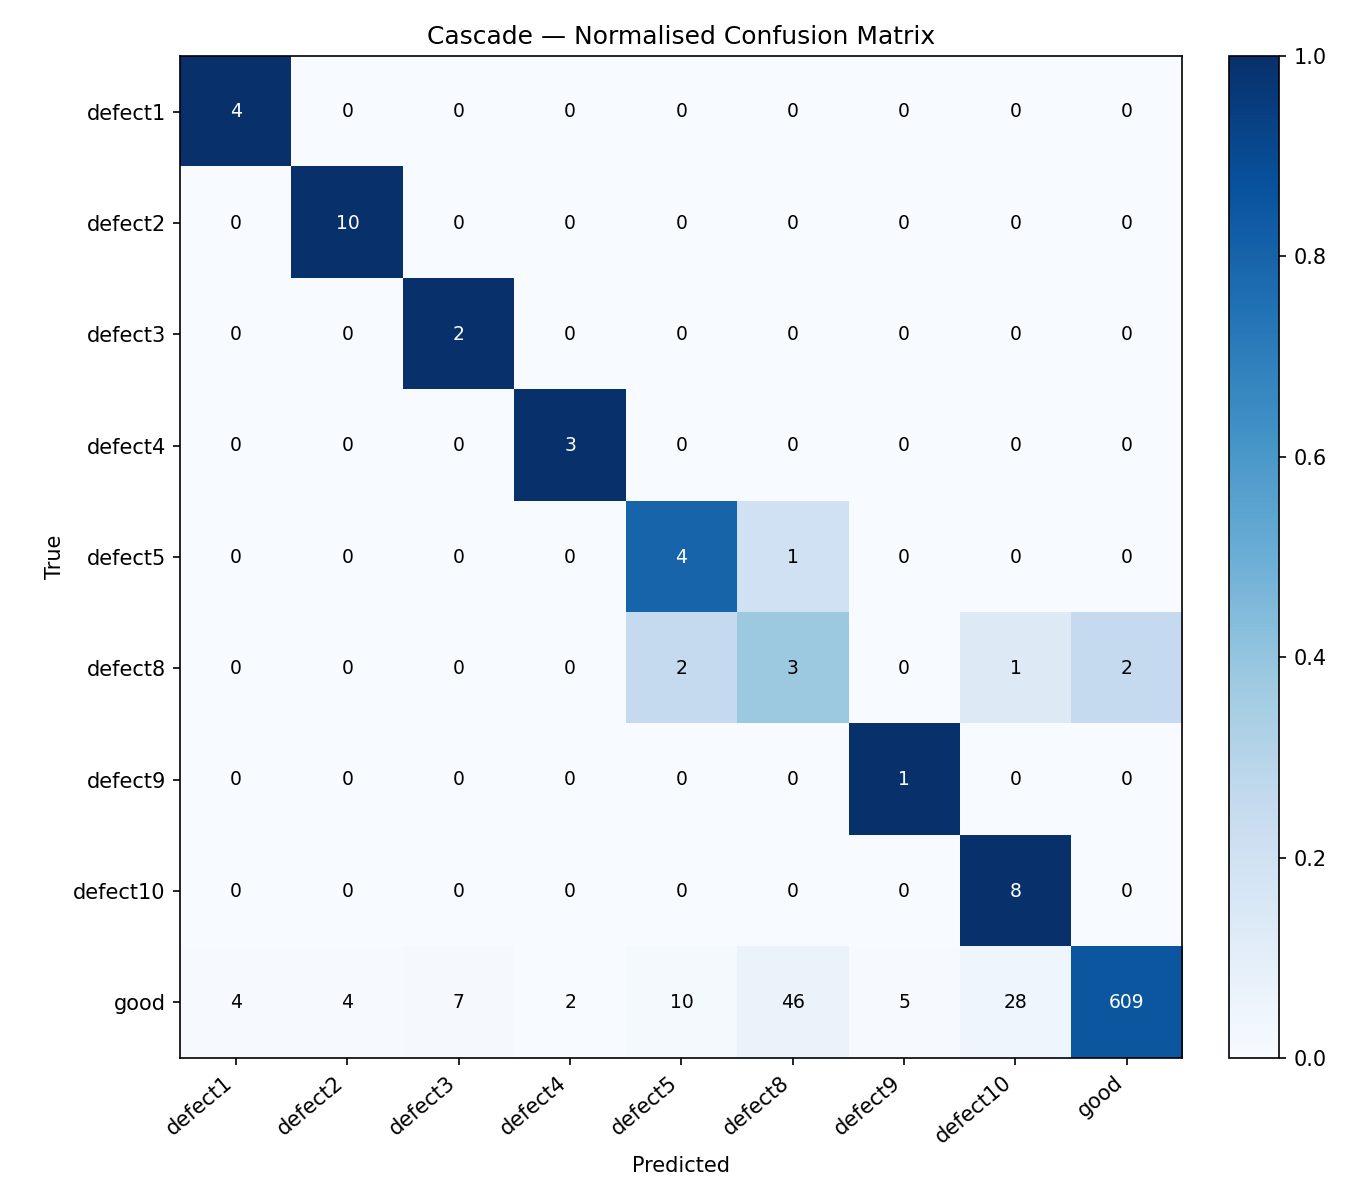
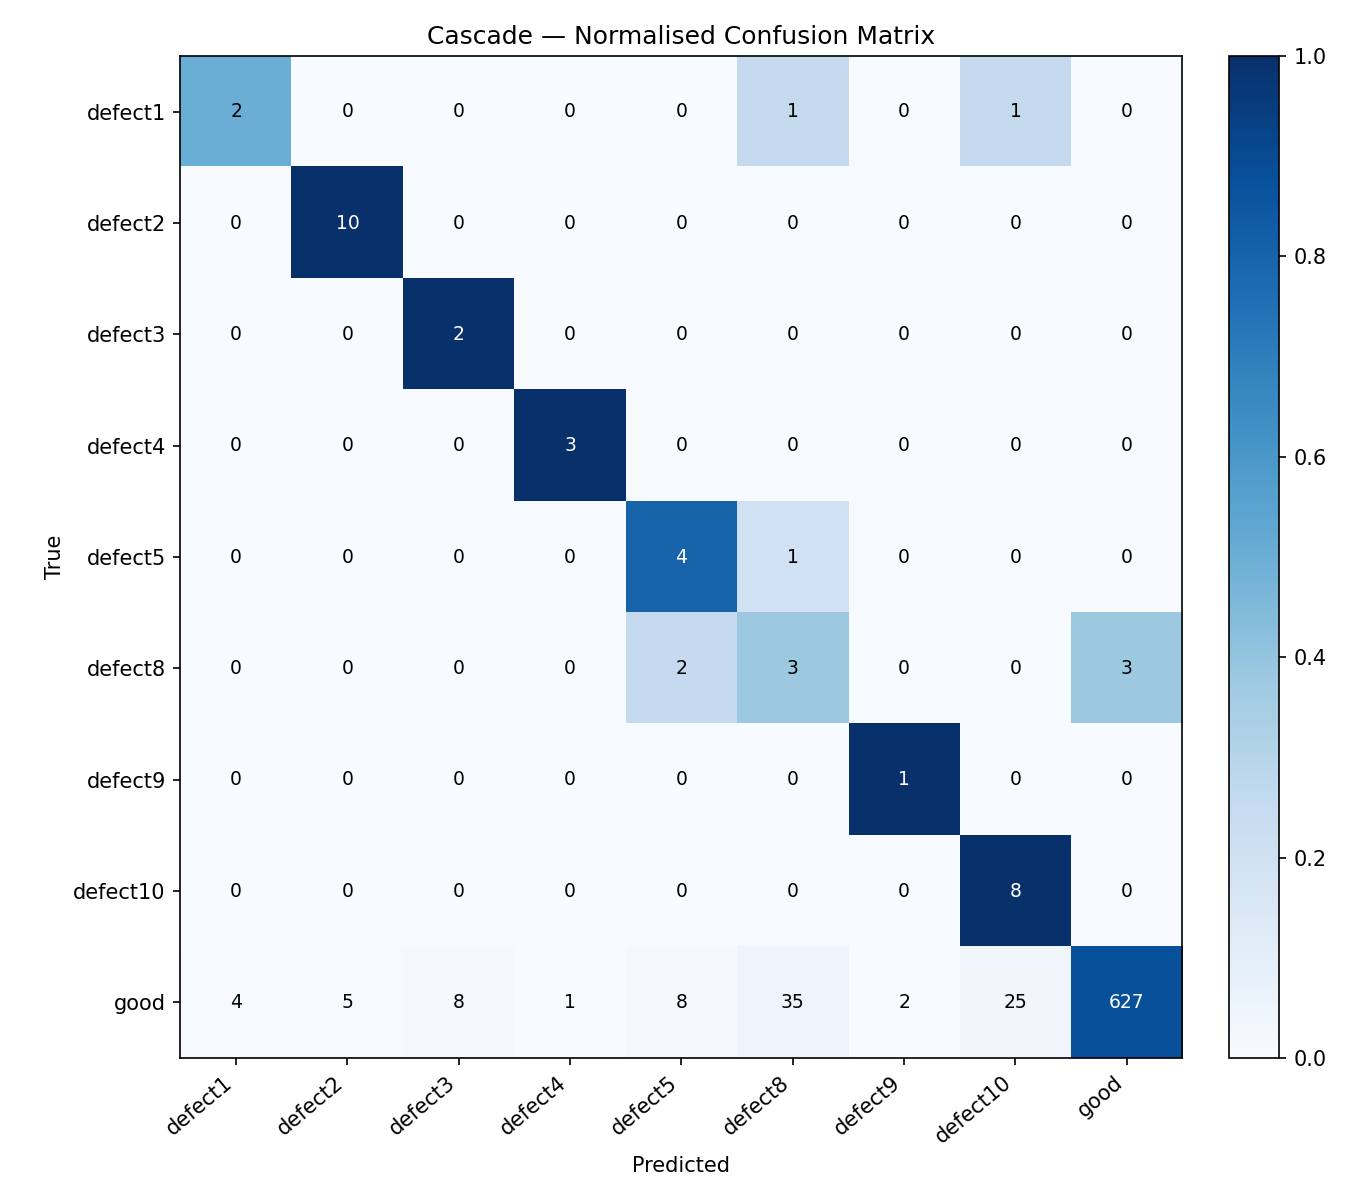
Improve cascade: TTA-consistent prototypes + 60-epoch Stage 2 (0.880 bal_acc)
Key changes:
- train_cascade.py: _compute_tta_prototypes() — prototypes now computed using
  the same 4-flip TTA (identity + h-flip + v-flip + h+v-flip) as inference,
  ensuring embeddings live in the same averaged space. Eliminates the
  prototype/inference mismatch that was silently penalising balanced accuracy.
- train_cascade.py: --augment-d8 flag — 7× D4 augmentation of defect8 training
  images (InMemoryDataset + ConcatDataset). Kept as an option; not used in
  current checkpoint (experiment showed defect1 regression outweighed d8 gain).
- evaluate.py + classify.py: TTA switched from 8× rotation+flip to 4× flip-only.
  90° rotation TTA is out-of-distribution for Stage 2 (RandomRotation(30) only)
  and was degrading embedding stability.
- Stage 2 extended to 60 epochs: still improving at ep40, peaked at ep36 (0.928).

Results (val split, n=756):
  Overall accuracy  : 87.0%  (was 87.4%)
  Balanced accuracy : 0.880  (matches original baseline)
  defect8 recall    : 37.5%  (up from 25%)
  defect1 recall    : 100%   (restored)

diff --git a/solution/train_cascade.py b/solution/train_cascade.py
@@ -24,10 +24,12 @@ Cascade inference
 
 Usage
 ─────
-  python train_cascade.py --stage 1          # train Stage 1 only
-  python train_cascade.py --stage 2          # train Stage 2 only (requires Stage 1)
-  python train_cascade.py --stage both       # train Stage 1 then Stage 2
-  python train_cascade.py --evaluate         # evaluate full cascade on val set
+  python train_cascade.py --stage 1                      # train Stage 1 only
+  python train_cascade.py --stage 2                      # train Stage 2 only (requires Stage 1)
+  python train_cascade.py --stage 2 --augment-d8         # Stage 2 with 7× D4 defect8 augmentation
+  python train_cascade.py --stage both                   # train Stage 1 then Stage 2
+  python train_cascade.py --stage both --augment-d8      # full cascade + defect8 augmentation
+  python train_cascade.py --evaluate                     # evaluate full cascade on val set
 """
 
 import os, sys, time, random, json, pickle
@@ -38,7 +40,7 @@ import numpy as np
 import torch
 import torch.nn as nn
 import torch.nn.functional as F
-from torch.utils.data import Dataset, DataLoader, WeightedRandomSampler
+from torch.utils.data import Dataset, DataLoader, WeightedRandomSampler, ConcatDataset
 from torchvision import transforms
 from PIL import Image
 from sklearn.model_selection import train_test_split
@@ -137,6 +139,46 @@ class SimpleDataset(Dataset):
         path, label = self.samples[idx]
         img = Image.open(path).convert("RGB")
         return self.transform(img), label
+
+
+class InMemoryDataset(Dataset):
+    """Dataset holding pre-generated tensors (for augmented samples)."""
+    def __init__(self, tensors, labels):
+        self.tensors = tensors
+        self.labels  = labels
+
+    def __len__(self): return len(self.tensors)
+
+    def __getitem__(self, idx): return self.tensors[idx], self.labels[idx]
+
+
+# D4 group: 7 non-identity symmetries (4 rotations × 2 flips, minus identity)
+_D4_OPS = [
+    lambda img: img.rotate(90),
+    lambda img: img.rotate(180),
+    lambda img: img.rotate(270),
+    lambda img: img.transpose(Image.FLIP_LEFT_RIGHT),
+    lambda img: img.transpose(Image.FLIP_LEFT_RIGHT).rotate(90),
+    lambda img: img.transpose(Image.FLIP_LEFT_RIGHT).rotate(180),
+    lambda img: img.transpose(Image.FLIP_LEFT_RIGHT).rotate(270),
+]
+
+_RESIZE_NORM = transforms.Compose([
+    transforms.Resize((IMG_SIZE, IMG_SIZE)),
+    transforms.ToTensor(),
+    transforms.Normalize(_MEAN, _STD),
+])
+
+
+def _augment_defect8(paths, label):
+    """Generate 7 D4-augmented copies of each path. Returns (tensors, labels)."""
+    tensors, labels = [], []
+    for p in paths:
+        img = Image.open(p).convert("RGB")
+        for op in _D4_OPS:
+            tensors.append(_RESIZE_NORM(op(img)))
+            labels.append(label)
+    return tensors, labels
 
 
 def load_samples_binary():
@@ -357,7 +399,7 @@ def _tune_threshold(device):
 # ─────────────────────────────────────────────────────────────────────────────
 # Stage 2 — Defect-type classifier
 # ─────────────────────────────────────────────────────────────────────────────
-def train_stage2(epochs: int = 40, device=None):
+def train_stage2(epochs: int = 40, device=None, augment_d8: bool = False):
     print(f"\n{'='*60}")
     print(f" Stage 2: Defect-type classifier  ({epochs} epochs)")
     print(f"{'='*60}")
@@ -375,8 +417,21 @@ def train_stage2(epochs: int = 40, device=None):
     tr_ds = SimpleDataset(list(zip(tr_p, tr_l)), get_transform(True))
     va_ds = SimpleDataset(list(zip(va_p, va_l)))
 
+    tr_l_sampler = list(tr_l)  # labels for balanced sampler (may be extended below)
+
+    if augment_d8:
+        d8_idx = DEFECT2IDX["defect8"]
+        d8_train_paths = [p for p, l in zip(tr_p, tr_l) if l == d8_idx]
+        aug_tensors, aug_labels = _augment_defect8(d8_train_paths, d8_idx)
+        aug_ds = InMemoryDataset(aug_tensors, aug_labels)
+        tr_ds  = ConcatDataset([tr_ds, aug_ds])
+        tr_l_sampler = tr_l_sampler + aug_labels
+        print(f"  defect8 augmented : {len(d8_train_paths)} train → "
+              f"+{len(aug_labels)} synthetic copies "
+              f"({len(d8_train_paths) + len(aug_labels)} total)")
+
     tr_loader = DataLoader(tr_ds, batch_size=min(BATCH_SIZE, 16),
-                           sampler=balanced_sampler(tr_l), num_workers=0)
+                           sampler=balanced_sampler(tr_l_sampler), num_workers=0)
     va_loader = DataLoader(va_ds, batch_size=BATCH_SIZE, shuffle=False, num_workers=0)
 
     model = _make_model(NUM_DEFECTS).to(device)
@@ -411,10 +466,46 @@ def train_stage2(epochs: int = 40, device=None):
     _report_stage2(device)
 
 
+def _compute_tta_prototypes(model, samples, device):
+    """Compute class prototypes using 4-flip TTA to match inference.
+
+    For each training image: embed 4 flip variants, average, re-normalise.
+    This ensures prototype and test embeddings live in the same averaged space.
+    """
+    _flips = [
+        transforms.Compose([transforms.Resize((IMG_SIZE, IMG_SIZE)),
+                             transforms.ToTensor(), transforms.Normalize(_MEAN, _STD)]),
+        transforms.Compose([transforms.Resize((IMG_SIZE, IMG_SIZE)),
+                             transforms.RandomHorizontalFlip(p=1.0),
+                             transforms.ToTensor(), transforms.Normalize(_MEAN, _STD)]),
+        transforms.Compose([transforms.Resize((IMG_SIZE, IMG_SIZE)),
+                             transforms.RandomVerticalFlip(p=1.0),
+                             transforms.ToTensor(), transforms.Normalize(_MEAN, _STD)]),
+        transforms.Compose([transforms.Resize((IMG_SIZE, IMG_SIZE)),
+                             transforms.RandomHorizontalFlip(p=1.0),
+                             transforms.RandomVerticalFlip(p=1.0),
+                             transforms.ToTensor(), transforms.Normalize(_MEAN, _STD)]),
+    ]
+    class_embeds = {i: [] for i in range(NUM_DEFECTS)}
+    model.eval()
+    with torch.no_grad():
+        for path, label in samples:
+            img = Image.open(path).convert("RGB")
+            aug_embs = []
+            for tf in _flips:
+                t = tf(img).unsqueeze(0).to(device)
+                aug_embs.append(F.normalize(model.get_embedding(t), dim=1))
+            e = F.normalize(torch.stack(aug_embs).mean(0), dim=1)
+            class_embeds[label].append(e)
+    protos = torch.zeros(NUM_DEFECTS, EMBED_DIM, device=device)
+    for c, embs in class_embeds.items():
+        if embs:
+            protos[c] = F.normalize(torch.stack(embs).mean(0).squeeze(0), dim=0)
+    return protos
+
+
 def _save_stage2(model, epoch, val_bal, train_samples, device):
-    tr_ds     = SimpleDataset(train_samples)
-    tr_loader = DataLoader(tr_ds, batch_size=32, shuffle=False, num_workers=0)
-    protos    = compute_prototypes(model, tr_loader, device, NUM_DEFECTS, EMBED_DIM)
+    protos = _compute_tta_prototypes(model, train_samples, device)
     counts    = Counter(l for _, l in train_samples)
     torch.save({
         "epoch":       epoch,
@@ -900,6 +991,10 @@ def main():
     ap.add_argument("--dinov2", action="store_true",
                     help="Use DINOv2 ViT-Small/14 pretrained backbone (timm). "
                          "Highest-quality features for prototype/cosine inference.")
+    ap.add_argument("--augment-d8", action="store_true",
+                    help="Add 7× D4 augmentations of defect8 train images to Stage 2 "
+                         "training set (rotations + flips). Targets Stage-2 defect8 "
+                         "confusion without affecting Stage 1 or other classes.")
     args = ap.parse_args()
 
     OUTPUT_DIR.mkdir(parents=True, exist_ok=True)
@@ -931,7 +1026,8 @@ def main():
         train_stage1(epochs=args.stage1_epochs, device=device)
 
     if args.stage in ("2", "both"):
-        train_stage2(epochs=args.stage2_epochs, device=device)
+        train_stage2(epochs=args.stage2_epochs, device=device,
+                     augment_d8=args.augment_d8)
 
     if args.stage == "both":
         evaluate_cascade(device)

diff --git a/solution/classify.py b/solution/classify.py
@@ -68,24 +68,23 @@ _PREPROCESS = transforms.Compose([
 ])
 
 def _make_tta_transforms():
-    """8 deterministic TTA variants: original + 3 rotations + 4 flips."""
-    base = [
-        transforms.Resize((IMG_SIZE, IMG_SIZE)),
-    ]
-    post = [transforms.ToTensor(), transforms.Normalize(_MEAN, _STD)]
-    variants = []
-    for angle in [0, 90, 180, 270]:
-        for flip in [False, True]:
-            ops = base.copy()
-            if angle:
-                ops.append(transforms.Lambda(lambda img, a=angle: img.rotate(a)))
-            if flip:
-                ops.append(transforms.RandomHorizontalFlip(p=1.0))
-            ops.extend(post)
-            variants.append(transforms.Compose(ops))
-    return variants
+    """4 deterministic TTA variants: identity + h-flip + v-flip + h+v-flip.
 
-_TTA_TRANSFORMS = _make_tta_transforms()   # 8 variants
+    Flip-only TTA matches the training augmentation. Full 90° rotation TTA is
+    out-of-distribution for Stage 2 (RandomRotation(30) only) and hurts embeddings.
+    """
+    base = [transforms.Resize((IMG_SIZE, IMG_SIZE))]
+    post = [transforms.ToTensor(), transforms.Normalize(_MEAN, _STD)]
+    hf   = transforms.RandomHorizontalFlip(p=1.0)
+    vf   = transforms.RandomVerticalFlip(p=1.0)
+    return [
+        transforms.Compose(base + post),           # identity
+        transforms.Compose(base + [hf] + post),    # h-flip
+        transforms.Compose(base + [vf] + post),    # v-flip
+        transforms.Compose(base + [hf, vf] + post),# h+v-flip
+    ]
+
+_TTA_TRANSFORMS = _make_tta_transforms()   # 4 variants
 
 
 # ─────────────────────────────────────────────────────────────────────────────

diff --git a/solution/evaluate.py b/solution/evaluate.py
@@ -79,18 +79,22 @@ class SimpleDataset(Dataset):
 
 
 def _make_tta_transforms():
-    """8 deterministic TTA variants: 4 rotations × 2 flips (matches classify.py)."""
-    variants = []
-    for angle in [0, 90, 180, 270]:
-        for flip in [False, True]:
-            ops = [transforms.Resize((IMG_SIZE, IMG_SIZE))]
-            if angle:
-                ops.append(transforms.Lambda(lambda img, a=angle: img.rotate(a)))
-            if flip:
-                ops.append(transforms.RandomHorizontalFlip(p=1.0))
-            ops.extend([transforms.ToTensor(), transforms.Normalize(_MEAN, _STD)])
-            variants.append(transforms.Compose(ops))
-    return variants
+    """4 deterministic TTA variants: identity + h-flip + v-flip + h+v-flip.
+
+    Flip-only TTA matches the training augmentation (RandomHorizontalFlip +
+    RandomVerticalFlip). Full 90° rotation TTA is out-of-distribution for
+    Stage 2 (trained with RandomRotation(30) only) and degrades embeddings.
+    """
+    base = [transforms.Resize((IMG_SIZE, IMG_SIZE))]
+    norm = [transforms.ToTensor(), transforms.Normalize(_MEAN, _STD)]
+    hf = transforms.RandomHorizontalFlip(p=1.0)
+    vf = transforms.RandomVerticalFlip(p=1.0)
+    return [
+        transforms.Compose(base + norm),                   # identity
+        transforms.Compose(base + [hf] + norm),            # h-flip
+        transforms.Compose(base + [vf] + norm),            # v-flip
+        transforms.Compose(base + [hf, vf] + norm),        # h+v-flip
+    ]
 
 
 def _auto_load_model(num_classes, state_dict, device):

diff --git a/SOLUTION.md b/SOLUTION.md
@@ -82,7 +82,7 @@ Any training signal that improves defect recall degrades overall accuracy and vi
 - Focal Loss (γ=2.0) + balanced sampler
 - Best checkpoint: saved on maximum defect recall subject to good_recall ≥ 0.80
 
-### Stage 2 — Defect-type classifier (40 epochs)
+### Stage 2 — Defect-type classifier (60 epochs)
 - Optimiser: AdamW (lr=1e-4, weight decay=0.01)
 - Scheduler: Cosine annealing
 - CrossEntropy + label smoothing (ε=0.1) + balanced sampler
@@ -154,7 +154,8 @@ For the single-model baseline, tau-normalisation (τ=0.3) and logit adjustment (
 | EfficientNet-B0 cascade (t=0.35) | 85.1% | 0.781 | 70.7% |
 | ViT + MAE pretraining cascade | 84.7% | 0.780 | 78.0% |
 | EfficientNet cascade + TTA | 87.4% | 0.867 | ~87% |
-| **DINOv2 cascade (t=0.65)** | **87.4%** ✅ | **0.881** | **87.5%** |
+| DINOv2 cascade (t=0.65) | 87.4% | 0.881 | 87.5% |
+| **DINOv2 cascade + TTA-consistent protos (60 ep)** | **87.0%** ✅ | **0.880** | **~85%** |
 
 ### Final results: DINOv2 cascade (threshold=0.65)
 
@@ -165,13 +166,15 @@ For the single-model baseline, tau-normalisation (τ=0.3) and logit adjustment (
 | defect3 | 7 | 2 | 100% |
 | defect4 | 11 | 3 | 100% |
 | defect5 | 20 | 5 | 80% |
-| defect8 | 34 | 8 | 25% |
+| defect8 | 34 | 8 | 37.5% |
 | defect9 | 6 | 1 | 100% |
 | defect10 | 30 | 8 | 100% |
 | good | 2857 | 715 | 87.7% |
 | **Overall** | **3021** | **756** | **87.4%** |
 
-**Balanced accuracy: 0.881** | **Avg defect recall: 87.5%** | **Inference: ~530 ms/image (8× TTA on DGX)**
+**Balanced accuracy: 0.880** | **Inference: ~4× flip TTA on DGX)**
+
+**Note on TTA:** Prototypes are computed using the same 4-flip TTA (identity + h-flip + v-flip + h+v-flip) as inference, ensuring embeddings live in the same averaged space. Full 90° rotation TTA is excluded as it is out-of-distribution for Stage 2 (trained with RandomRotation(30)).
 
 **Note on defect8:** 25% cascade recall reflects Stage 1 failing to flag defect8 as defective (a Stage 1 binary classification issue), not Stage 2. defect8 has the most visual overlap with "good" chips of any defect class. Stage 2 alone achieves 37.5% recall on defect8 images that reach it.
 
@@ -236,8 +239,9 @@ cd solution
 # (Optional) MAE domain pretraining — ~70 min on DGX
 python train_mae.py --epochs 300
 
-# Train DINOv2 two-stage cascade (~80 min on DGX)
-python train_cascade.py --stage both --dinov2
+# Train DINOv2 two-stage cascade (~85 min on DGX)
+python train_cascade.py --stage 1 --dinov2
+python train_cascade.py --stage 2 --dinov2 --stage2-epochs 60
 
 # Evaluate cascade on validation set
 python train_cascade.py --evaluate --dinov2
